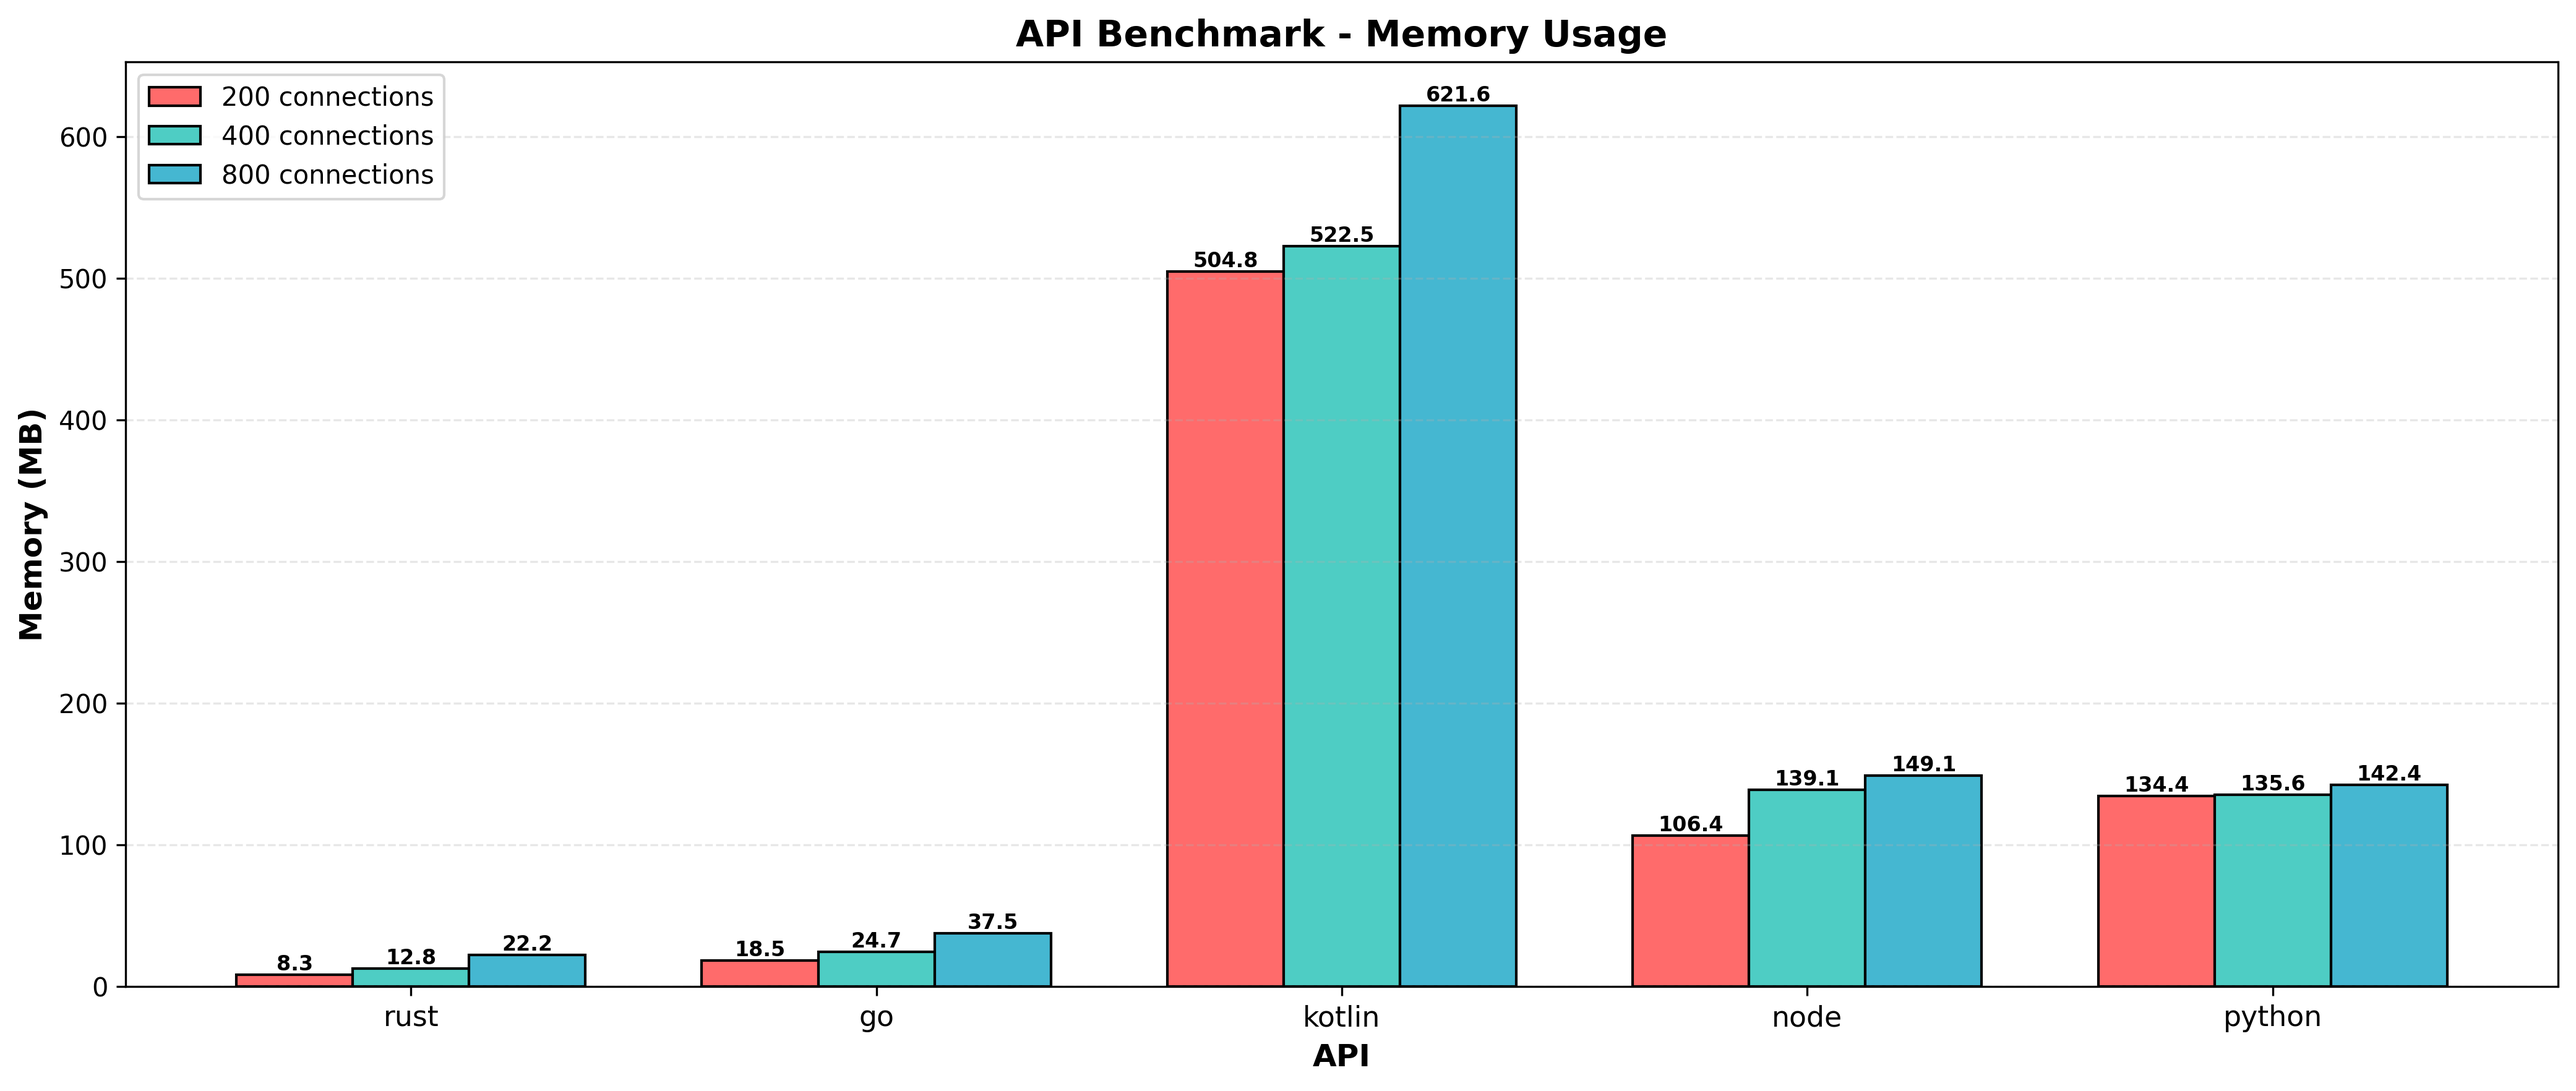
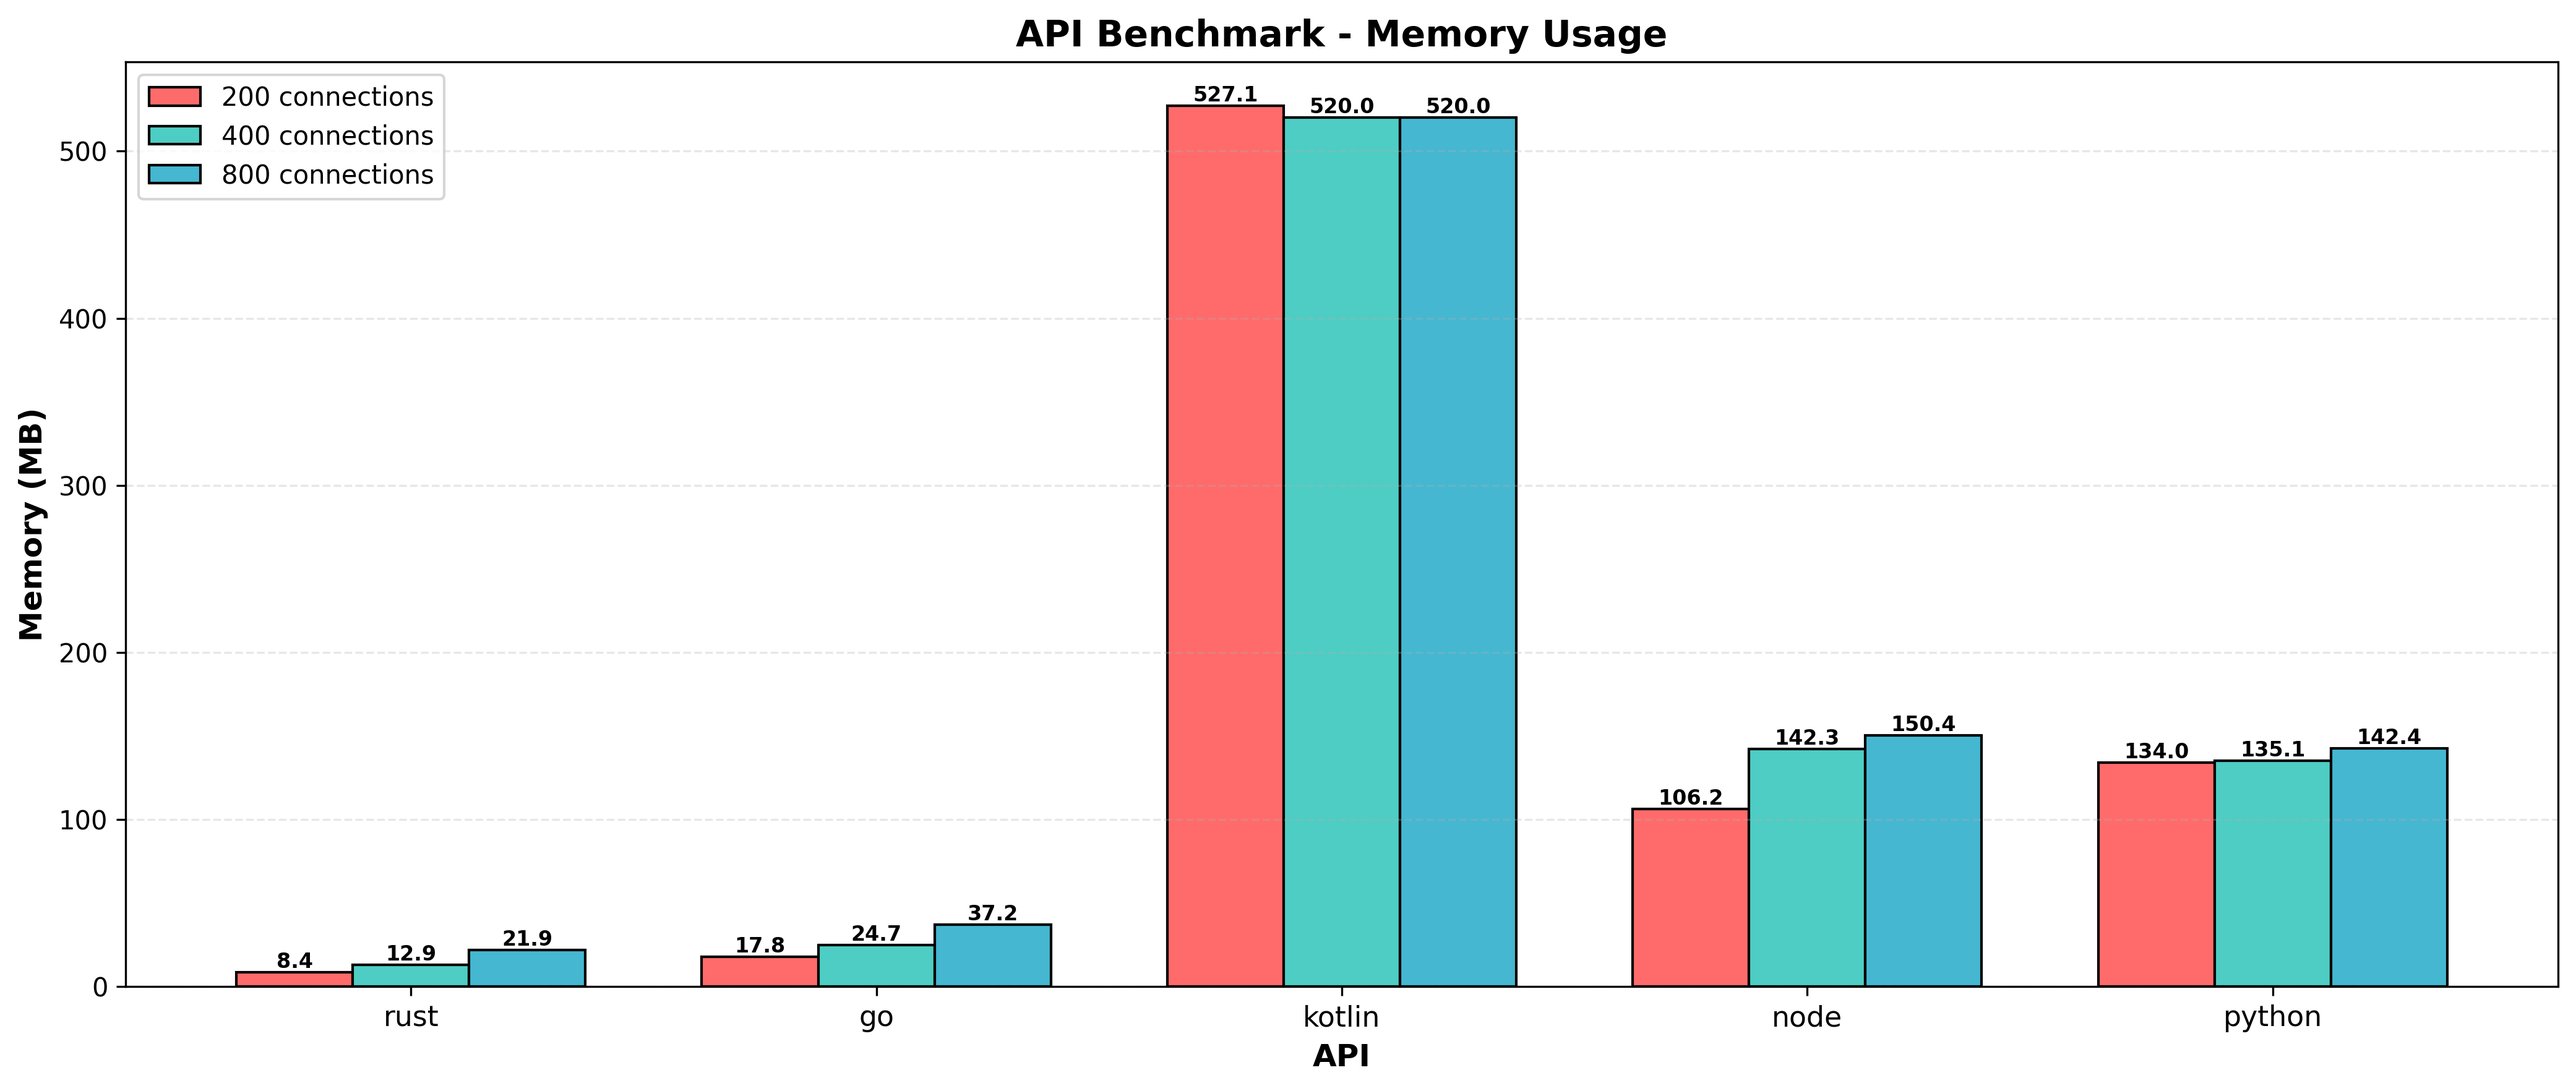
results from github actions autocommit

diff --git a/results/raw.md b/results/raw.md
@@ -1,6 +1,6 @@
 # Results
 ## Timestamp
-Sat Jan 31 10:44:03 UTC 2026
+Mon Feb 2 11:11:29 UTC 2026
 ## Hardware Info
 | CPU Model | Num CPUs | Memory |
 | --------- | -------- | ------ |
@@ -9,18 +9,18 @@ Sat Jan 31 10:44:03 UTC 2026
 ## Benchmarks of 1 Million Requests
 | Test Name | HTTP Conns | Success Rate | Test Seconds | Requests per Second | P50 Millis | P99 Millis | P99.9 Millis | API Memory MB | API CPU Time | API Threads | API Processes |
 | --------- | ---------- | ------------ | ------------ | ------------------- | ---------- | ---------- | ------------ | ------------- | ------------ | ----------- | ------------- |
-| rust | 200 | 100.0% | 8.7 | 113965.2 | 1.6241 | 4.4650 | 5.8239 | 8.3 | 00:00:17 | 5 | 1 |
-| rust | 400 | 100.0% | 8.6 | 115373.8 | 3.2838 | 7.4231 | 10.1960 | 12.8 | 00:00:17 | 5 | 1 |
-| rust | 800 | 100.0% | 8.9 | 112145.0 | 6.9691 | 11.8030 | 17.7018 | 22.2 | 00:00:17 | 5 | 1 |
-| go | 200 | 100.0% | 11.9 | 83759.8 | 1.8716 | 7.4481 | 10.2675 | 18.5 | 00:00:28 | 12 | 1 |
-| go | 400 | 100.0% | 11.5 | 86501.7 | 3.9015 | 14.0932 | 20.3156 | 24.7 | 00:00:27 | 12 | 1 |
-| go | 800 | 100.0% | 11.9 | 84116.9 | 8.5121 | 26.6273 | 39.2458 | 37.5 | 00:00:28 | 13 | 1 |
-| kotlin | 200 | 100.0% | 14.2 | 70332.9 | 1.9692 | 11.8287 | 32.6223 | 504.8 | 00:00:38 | 30 | 1 |
-| kotlin | 400 | 100.0% | 14.8 | 67244.2 | 4.7961 | 23.6556 | 47.0493 | 522.5 | 00:00:41 | 30 | 1 |
-| kotlin | 800 | 100.0% | 15.5 | 64298.6 | 10.1639 | 43.3145 | 108.1463 | 621.6 | 00:00:43 | 31 | 1 |
-| node | 200 | 100.0% | 36.6 | 27290.5 | 6.2222 | 9.8442 | 11.9520 | 106.4 | 00:00:37 | 7 | 1 |
-| node | 400 | 100.0% | 35.4 | 28243.8 | 12.3030 | 19.8020 | 26.6636 | 139.1 | 00:00:35 | 7 | 1 |
-| node | 800 | 100.0% | 37.4 | 26682.3 | 25.6290 | 41.7713 | 50.9675 | 149.1 | 00:00:37 | 7 | 1 |
-| python | 200 | 100.0% | 101.2 | 9945.9 | 22.0285 | 34.0600 | 38.6365 | 134.4 | 00:06:03 | 5 | 5 |
-| python | 400 | 100.0% | 101.5 | 9845.0 | 36.6064 | 73.8920 | 79.3864 | 135.6 | 00:06:08 | 5 | 5 |
-| python | 800 | 100.0% | 104.4 | 9523.2 | 79.3476 | 121.5426 | 128.1230 | 142.4 | 00:06:17 | 5 | 5 |
+| rust | 200 | 100.0% | 8.8 | 113181.4 | 1.6181 | 4.5569 | 5.9086 | 8.4 | 00:00:16 | 5 | 1 |
+| rust | 400 | 100.0% | 8.6 | 115331.8 | 3.2661 | 7.0350 | 9.5700 | 12.9 | 00:00:17 | 5 | 1 |
+| rust | 800 | 100.0% | 8.8 | 113704.3 | 6.9152 | 11.0159 | 17.9533 | 21.9 | 00:00:17 | 5 | 1 |
+| go | 200 | 100.0% | 11.8 | 84169.3 | 1.8574 | 7.4801 | 10.1988 | 17.8 | 00:00:28 | 11 | 1 |
+| go | 400 | 100.0% | 11.5 | 86600.0 | 3.9146 | 13.7683 | 20.1485 | 24.7 | 00:00:27 | 11 | 1 |
+| go | 800 | 100.0% | 11.7 | 84915.9 | 8.4220 | 25.6699 | 39.0715 | 37.2 | 00:00:28 | 13 | 1 |
+| kotlin | 200 | 100.0% | 14.8 | 67405.1 | 2.0232 | 13.1550 | 28.2723 | 527.1 | 00:00:41 | 30 | 1 |
+| kotlin | 400 | 100.0% | 14.4 | 69118.1 | 4.6593 | 23.9613 | 61.5063 | 520.0 | 00:00:39 | 30 | 1 |
+| kotlin | 800 | 100.0% | 15.4 | 64897.1 | 9.9655 | 46.2821 | 117.6858 | 520.0 | 00:00:42 | 30 | 1 |
+| node | 200 | 100.0% | 32.9 | 30335.8 | 5.7915 | 9.2137 | 11.2912 | 106.2 | 00:00:33 | 7 | 1 |
+| node | 400 | 100.0% | 34.7 | 28800.2 | 12.1016 | 19.2118 | 24.3998 | 142.3 | 00:00:35 | 7 | 1 |
+| node | 800 | 100.0% | 37.7 | 26495.1 | 26.1723 | 41.1017 | 44.9015 | 150.4 | 00:00:38 | 7 | 1 |
+| python | 200 | 100.0% | 100.7 | 10058.6 | 20.0719 | 34.4051 | 38.4245 | 134.0 | 00:06:03 | 5 | 5 |
+| python | 400 | 100.0% | 102.5 | 9764.6 | 43.6310 | 61.9179 | 67.5240 | 135.1 | 00:06:09 | 5 | 5 |
+| python | 800 | 100.0% | 105.2 | 9514.9 | 70.7399 | 153.9014 | 173.9924 | 142.4 | 00:06:21 | 5 | 5 |

diff --git a/results/latest.md b/results/latest.md
@@ -1,6 +1,6 @@
 # Latest Results
 
-Timestamp: `Sat Jan 31 10:44:03 UTC 2026`
+Timestamp: `Mon Feb 2 11:11:29 UTC 2026`
 
 ## Requests Per Second
 ![Requests Per Second](rps.png)
